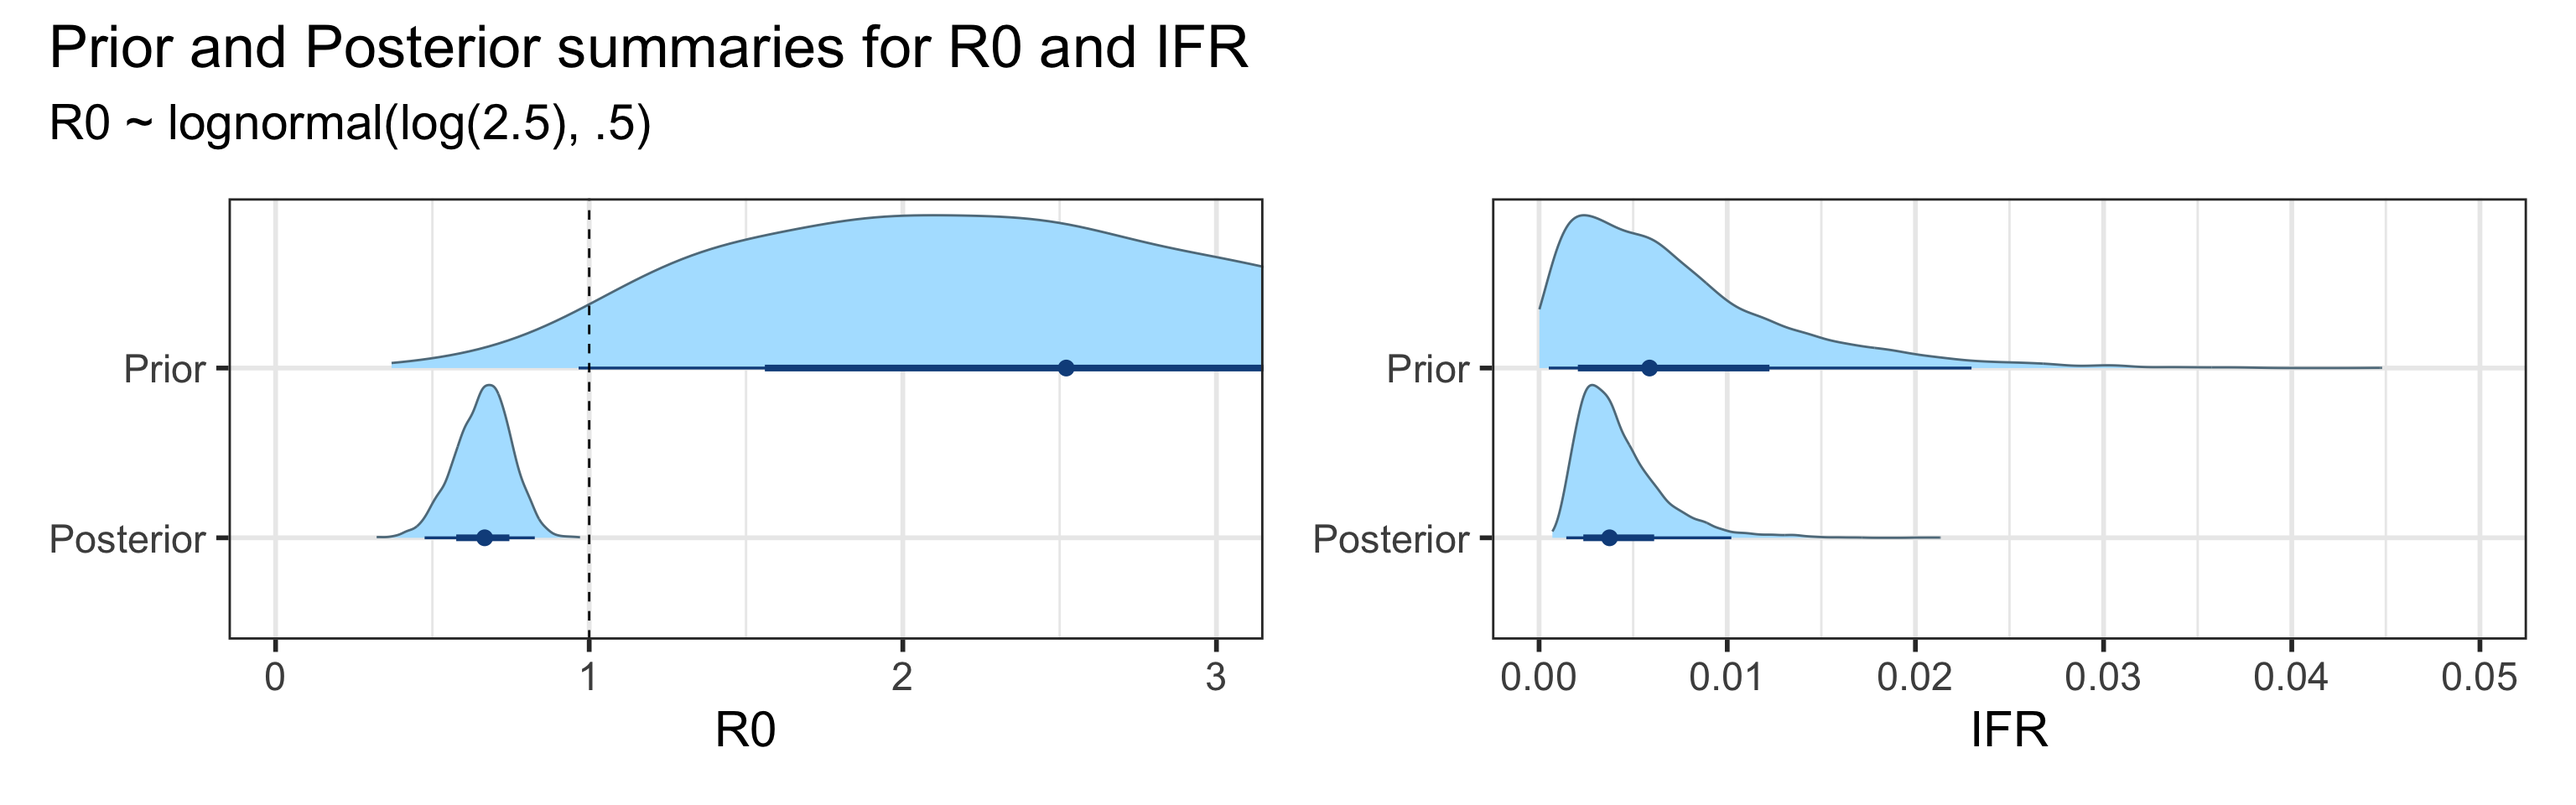
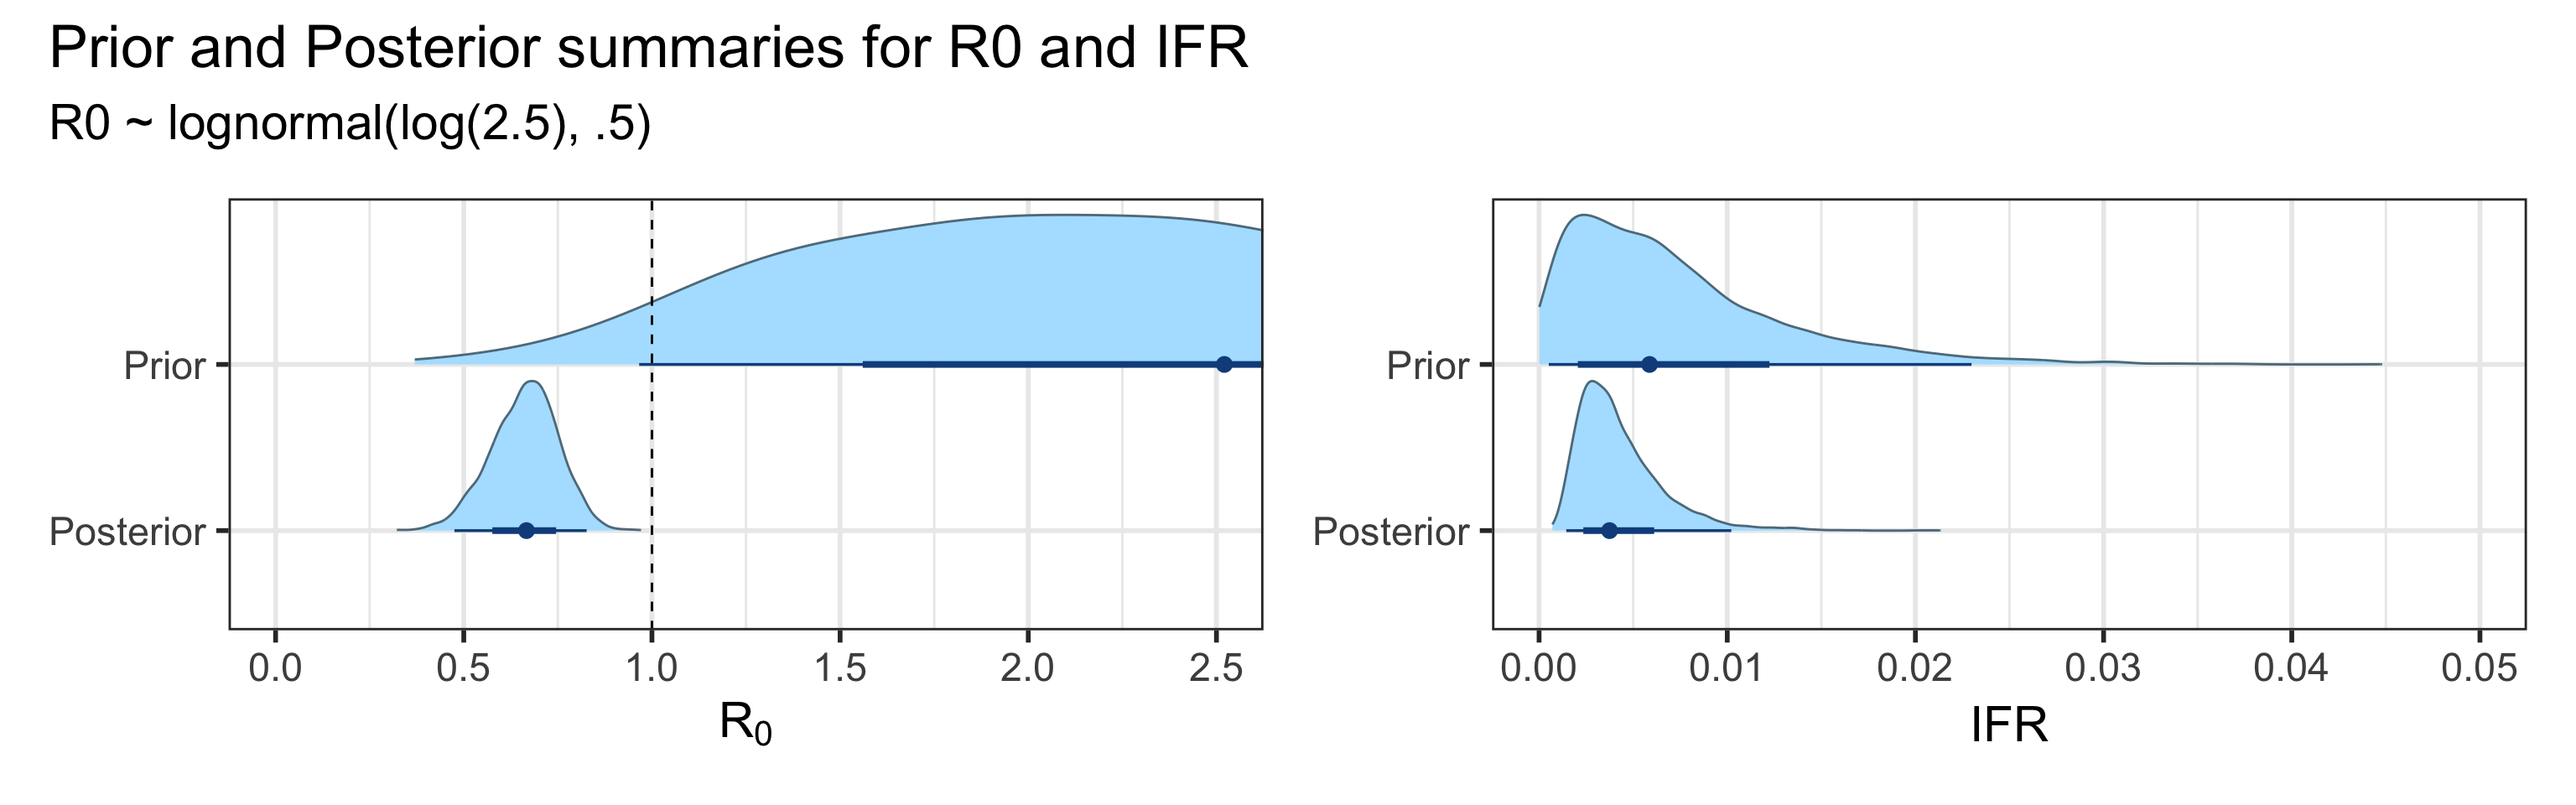
fixed some R0 subscripts, but many are left

diff --git a/docs/index.html b/docs/index.html
@@ -358,7 +358,7 @@ $(document).ready(function () {
 <strong>Last updated:</strong> 2020-09-13
 </p>
 <p>
-<strong>Checks:</strong> <span class="glyphicon glyphicon-ok text-success" aria-hidden="true"></span> 5 <span class="glyphicon glyphicon-exclamation-sign text-danger" aria-hidden="true"></span> 2
+<strong>Checks:</strong> <span class="glyphicon glyphicon-ok text-success" aria-hidden="true"></span> 6 <span class="glyphicon glyphicon-exclamation-sign text-danger" aria-hidden="true"></span> 1
 </p>
 <p>
 <strong>Knit directory:</strong> <code>uci_covid_modeling/</code> <span class="glyphicon glyphicon-question-sign" aria-hidden="true" title="This is the local directory in which the code in this file was executed."> </span>
@@ -422,60 +422,12 @@ This reproducible <a href="http://rmarkdown.rstudio.com">R Markdown</a> analysis
 <div class="panel panel-default">
 <div class="panel-heading">
 <p class="panel-title">
-<a data-toggle="collapse" data-parent="#workflowr-checks" href="#strongCachestrongdetected"> <span class="glyphicon glyphicon-exclamation-sign text-danger" aria-hidden="true"></span> <strong>Cache:</strong> detected </a>
+<a data-toggle="collapse" data-parent="#workflowr-checks" href="#strongCachestrongnone"> <span class="glyphicon glyphicon-ok text-success" aria-hidden="true"></span> <strong>Cache:</strong> none </a>
 </p>
 </div>
-<div id="strongCachestrongdetected" class="panel-collapse collapse">
+<div id="strongCachestrongnone" class="panel-collapse collapse">
 <div class="panel-body">
-The following chunks had caches available:
-<ul>
-<li>
-executive-summary
-</li>
-<li>
-latent-vs-observed-incidence
-</li>
-<li>
-model-inputs
-</li>
-<li>
-ppc-forecasts
-</li>
-<li>
-R0-IFR
-</li>
-<li>
-reading-model-objects
-</li>
-<li>
-reading-sensitivity-objects
-</li>
-<li>
-unnamed-chunk-1
-</li>
-<li>
-unnamed-chunk-2
-</li>
-<li>
-unnamed-chunk-3
-</li>
-<li>
-unnamed-chunk-4
-</li>
-<li>
-unnamed-chunk-5
-</li>
-<li>
-unnamed-chunk-6
-</li>
-<li>
-unnamed-chunk-7
-</li>
-<li>
-unnamed-chunk-8
-</li>
-</ul>
-<p>To ensure reproducibility of the results, delete the cache directory <code>index_cache</code> and re-run the analysis. To have workflowr automatically delete the cache directory prior to building the file, set <code>delete_cache = TRUE</code> when running <code>wflow_build()</code> or <code>wflow_publish()</code>.</p>
+<p>Nice! There were no cached chunks for this analysis, so you can be confident that you successfully produced the results during this run.</p>
 </div>
 </div>
 </div>
@@ -494,16 +446,16 @@ unnamed-chunk-8
 <div class="panel panel-default">
 <div class="panel-heading">
 <p class="panel-title">
-<a data-toggle="collapse" data-parent="#workflowr-checks" href="#strongRepositoryversionstrongahrefhttpsgithubcomvnmininucicovidmodelingtreee819db9948145ef008e91920574867198b3122a1targetblanke819db9a"> <span class="glyphicon glyphicon-ok text-success" aria-hidden="true"></span> <strong>Repository version:</strong> <a href="https://github.com/vnminin/uci_covid_modeling/tree/e819db9948145ef008e91920574867198b3122a1" target="_blank">e819db9</a> </a>
+<a data-toggle="collapse" data-parent="#workflowr-checks" href="#strongRepositoryversionstrongahrefhttpsgithubcomvnmininucicovidmodelingtree246fc9cf34e61aa672cc7e60885af33644947cf2targetblank246fc9ca"> <span class="glyphicon glyphicon-ok text-success" aria-hidden="true"></span> <strong>Repository version:</strong> <a href="https://github.com/vnminin/uci_covid_modeling/tree/246fc9cf34e61aa672cc7e60885af33644947cf2" target="_blank">246fc9c</a> </a>
 </p>
 </div>
[2 lines of base64/hex data omitted]
 <div class="panel-body">
 <p>
 Great! You are using Git for version control. Tracking code development and connecting the code version to the results is critical for reproducibility.
 </p>
 <p>
-The results in this page were generated with repository version <a href="https://github.com/vnminin/uci_covid_modeling/tree/e819db9948145ef008e91920574867198b3122a1" target="_blank">e819db9</a>. See the <em>Past versions</em> tab to see a history of the changes made to the R Markdown and HTML files.
+The results in this page were generated with repository version <a href="https://github.com/vnminin/uci_covid_modeling/tree/246fc9cf34e61aa672cc7e60885af33644947cf2" target="_blank">246fc9c</a>. See the <em>Past versions</em> tab to see a history of the changes made to the R Markdown and HTML files.
 </p>
 <p>
 Note that you need to be careful to ensure that all relevant files for the analysis have been committed to Git prior to generating the results (you can use <code>wflow_publish</code> or <code>wflow_git_commit</code>). workflowr only checks the R Markdown file, but you know if there are other scripts or data files that it depends on. Below is the status of the Git repository when the results were generated:
@@ -512,8 +464,6 @@ Note that you need to be careful to ensure that all relevant files for the analy
 Ignored files:
     Ignored:    .Rhistory
     Ignored:    .Rproj.user/
-    Ignored:    analysis/figure/
-    Ignored:    analysis/index_cache/
     Ignored:    analysis/jul18_aug22_cache/
     Ignored:    analysis/jul24_aug28_cache/
 
@@ -557,6 +507,40 @@ Message
 </tr>
 </thead>
 <tbody>
+<tr>
+<td>
+Rmd
+</td>
+<td>
+<a href="https://github.com/vnminin/uci_covid_modeling/blob/246fc9cf34e61aa672cc7e60885af33644947cf2/analysis/index.Rmd" target="_blank">246fc9c</a>
+</td>
+<td>
+vnminin
+</td>
+<td>
+2020-09-13
+</td>
+<td>
+fixed cachign issue with prevalence plot and rounded off prevalence a bit
+</td>
+</tr>
+<tr>
+<td>
+html
+</td>
+<td>
+<a href="https://rawcdn.githack.com/vnminin/uci_covid_modeling/246fc9cf34e61aa672cc7e60885af33644947cf2/docs/index.html" target="_blank">246fc9c</a>
+</td>
+<td>
+vnminin
+</td>
+<td>
+2020-09-13
+</td>
+<td>
+fixed cachign issue with prevalence plot and rounded off prevalence a bit
+</td>
+</tr>
 <tr>
 <td>
 Rmd
@@ -1816,6 +1800,17 @@ Date
 <tbody>
 <tr>
 <td>
+<a href="https://github.com/vnminin/uci_covid_modeling/blob/246fc9cf34e61aa672cc7e60885af33644947cf2/docs/figure/index.Rmd/latent-vs-observed-incidence-1.png" target="_blank">246fc9c</a>
+</td>
+<td>
+vnminin
+</td>
+<td>
+2020-09-13
+</td>
+</tr>
+<tr>
+<td>
 <a href="https://github.com/vnminin/uci_covid_modeling/blob/2ae9065cad796b569b391638cd6d16a752f4b16d/docs/figure/index.Rmd/latent-vs-observed-incidence-1.png" target="_blank">2ae9065</a>
 </td>
 <td>
@@ -1896,6 +1891,17 @@ Date
 </tr>
 </thead>
 <tbody>
+<tr>
+<td>
+<a href="https://github.com/vnminin/uci_covid_modeling/blob/246fc9cf34e61aa672cc7e60885af33644947cf2/docs/figure/index.Rmd/ppc-forecasts-1.png" target="_blank">246fc9c</a>
+</td>
+<td>
+vnminin
+</td>
+<td>
+2020-09-13
+</td>
+</tr>
 <tr>
 <td>
 <a href="https://github.com/vnminin/uci_covid_modeling/blob/e819db9948145ef008e91920574867198b3122a1/docs/figure/index.Rmd/ppc-forecasts-1.png" target="_blank">e819db9</a>
@@ -3892,21 +3898,33 @@ other attached packages:
 [13] fs_1.4.2        here_0.1        lubridate_1.7.9 workflowr_1.6.2
 
 loaded via a namespace (and not attached):
- [1] Rcpp_1.0.5         lattice_0.20-41    utf8_1.1.4         assertthat_0.2.1  
- [5] rprojroot_1.3-2    digest_0.6.25      plyr_1.8.6         R6_2.4.1          
- [9] cellranger_1.1.0   backports_1.1.8    reprex_0.3.0       evaluate_0.14     
-[13] coda_0.19-3        httr_1.4.1         pillar_1.4.6       rlang_0.4.7       
-[17] readxl_1.3.1       rstudioapi_0.11    whisker_0.4        blob_1.2.1        
-[21] rmarkdown_2.3      munsell_0.5.0      broom_0.7.0        compiler_4.0.0    
-[25] httpuv_1.5.4       modelr_0.1.8       xfun_0.15          pkgconfig_2.0.3   
-[29] htmltools_0.5.0    tidyselect_1.1.0   arrayhelpers_1.1-0 fansi_0.4.1       
-[33] crayon_1.3.4       dbplyr_1.4.4       withr_2.2.0        later_1.1.0.1     
-[37] ggdist_2.1.1       grid_4.0.0         jsonlite_1.7.0     gtable_0.3.0      
-[41] lifecycle_0.2.0    DBI_1.1.0          git2r_0.27.1       magrittr_1.5      
-[45] cli_2.0.2          stringi_1.4.6      promises_1.1.1     xml2_1.3.2        
-[49] ellipsis_0.3.1     generics_0.0.2     vctrs_0.3.1        tools_4.0.0       
-[53] svUnit_1.0.3       glue_1.4.1         hms_0.5.3          yaml_2.2.1        
-[57] colorspace_1.4-1   rvest_0.3.5        knitr_1.29         haven_2.3.1       </code></pre>
+ [1] matrixStats_0.56.0   RColorBrewer_1.1-2   httr_1.4.1          
+ [4] rprojroot_1.3-2      rstan_2.21.1         tools_4.0.0         
+ [7] backports_1.1.8      utf8_1.1.4           R6_2.4.1            
+[10] DBI_1.1.0            colorspace_1.4-1     ggdist_2.1.1        
+[13] withr_2.2.0          tidyselect_1.1.0     gridExtra_2.3       
+[16] prettyunits_1.1.1    processx_3.4.3       curl_4.3            
+[19] compiler_4.0.0       git2r_0.27.1         cli_2.0.2           
+[22] rvest_0.3.5          arrayhelpers_1.1-0   xml2_1.3.2          
+[25] labeling_0.3         callr_3.4.3          digest_0.6.25       
+[28] StanHeaders_2.21.0-5 rmarkdown_2.3        pkgconfig_2.0.3     
+[31] htmltools_0.5.0      dbplyr_1.4.4         rlang_0.4.7         
+[34] readxl_1.3.1         rstudioapi_0.11      farver_2.0.3        
+[37] generics_0.0.2       svUnit_1.0.3         jsonlite_1.7.0      
+[40] inline_0.3.15        magrittr_1.5         loo_2.3.0           
+[43] Rcpp_1.0.5           munsell_0.5.0        fansi_0.4.1         
+[46] lifecycle_0.2.0      stringi_1.4.6        whisker_0.4         
+[49] yaml_2.2.1           pkgbuild_1.0.8       plyr_1.8.6          
+[52] grid_4.0.0           blob_1.2.1           parallel_4.0.0      
+[55] promises_1.1.1       crayon_1.3.4         lattice_0.20-41     
+[58] haven_2.3.1          hms_0.5.3            knitr_1.29          
+[61] ps_1.3.3             pillar_1.4.6         codetools_0.2-16    
+[64] stats4_4.0.0         reprex_0.3.0         glue_1.4.1          
+[67] evaluate_0.14        V8_3.2.0             RcppParallel_5.0.2  
+[70] modelr_0.1.8         vctrs_0.3.1          httpuv_1.5.4        
+[73] cellranger_1.1.0     gtable_0.3.0         assertthat_0.2.1    
+[76] xfun_0.15            broom_0.7.0          coda_0.19-3         
+[79] later_1.1.0.1        ellipsis_0.3.1      </code></pre>
 </div>
 </div>
 </div>
